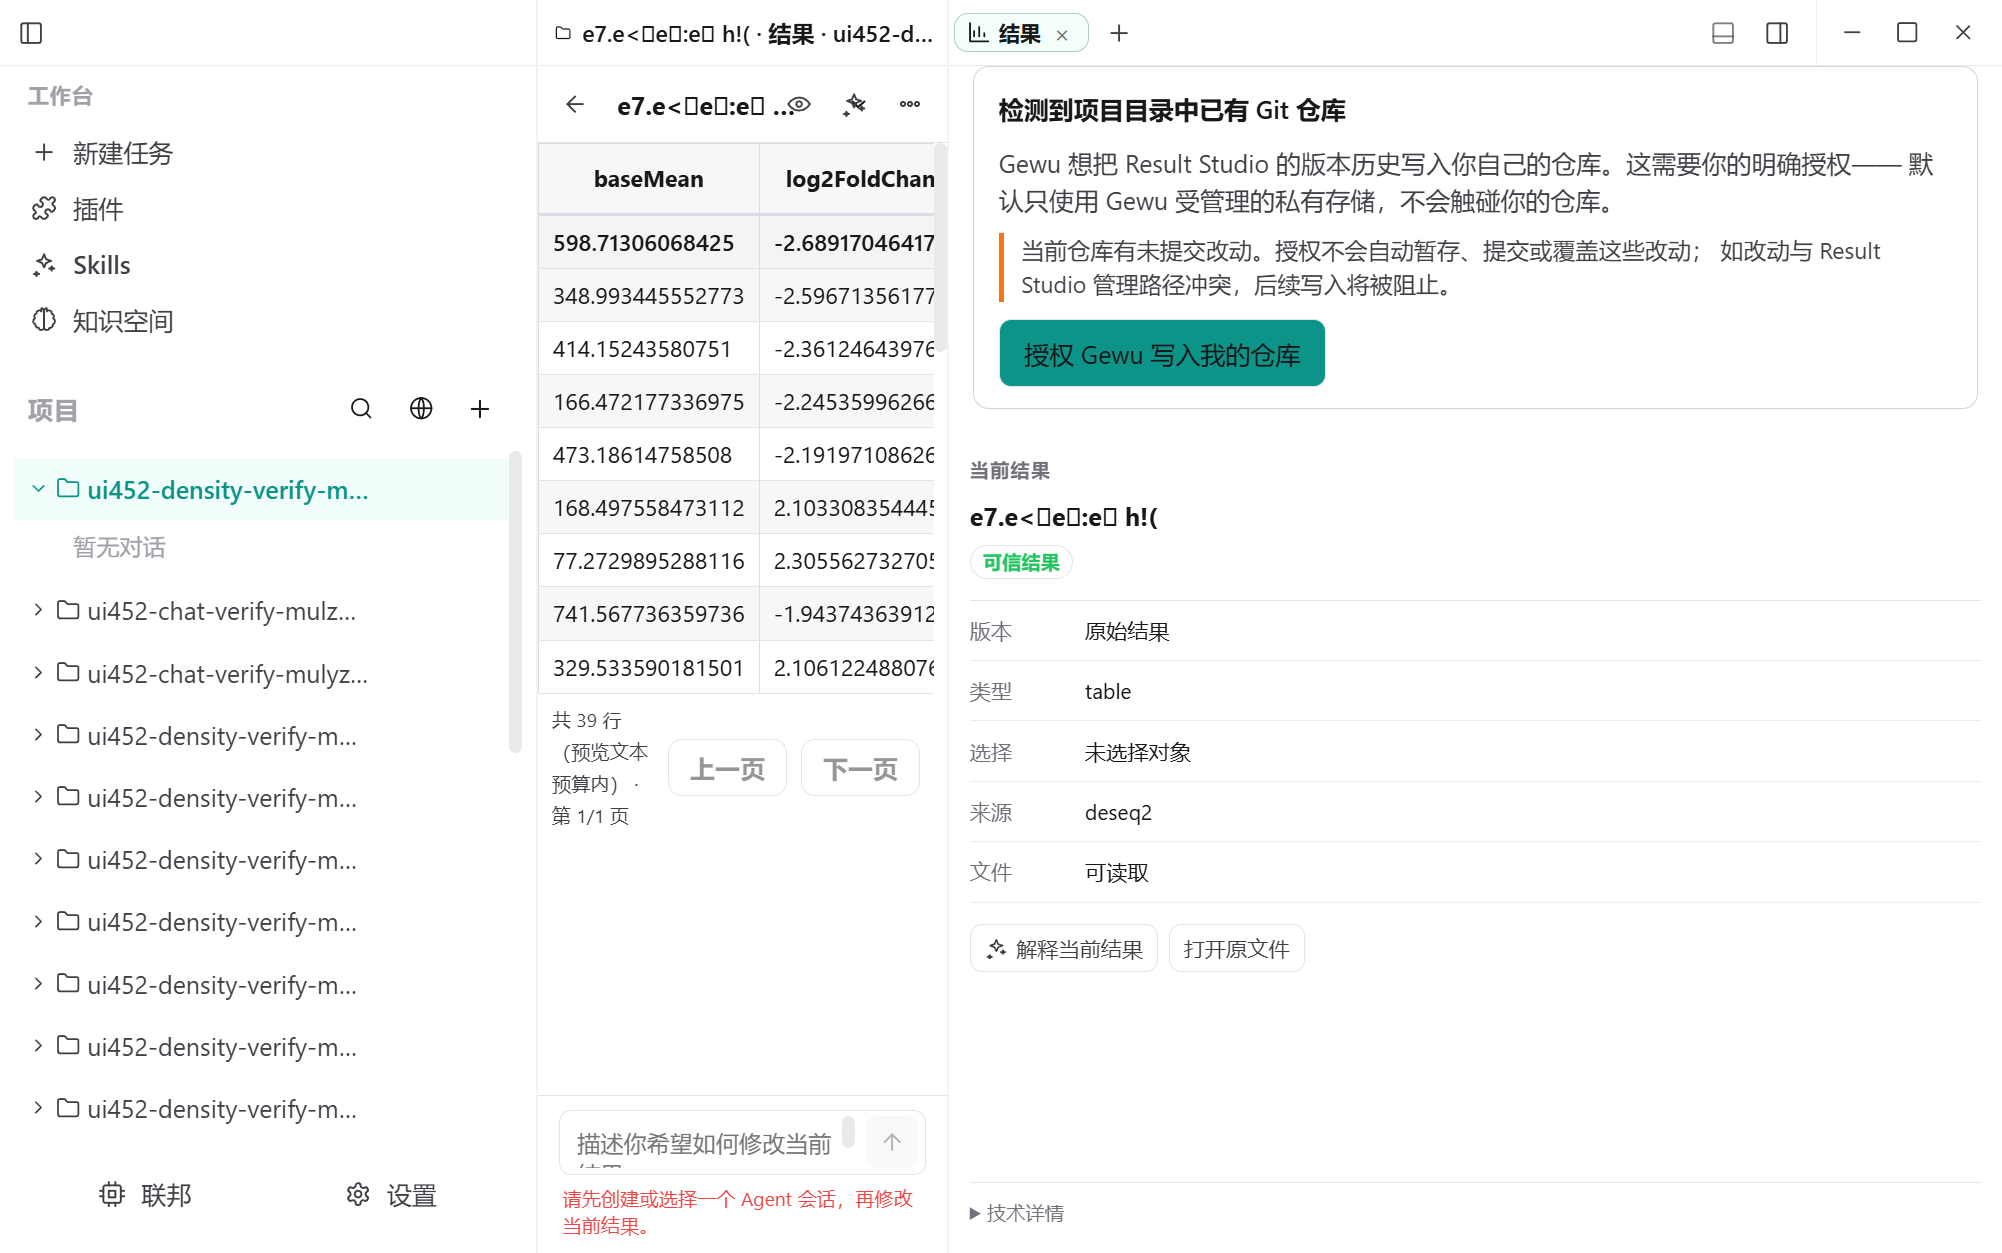
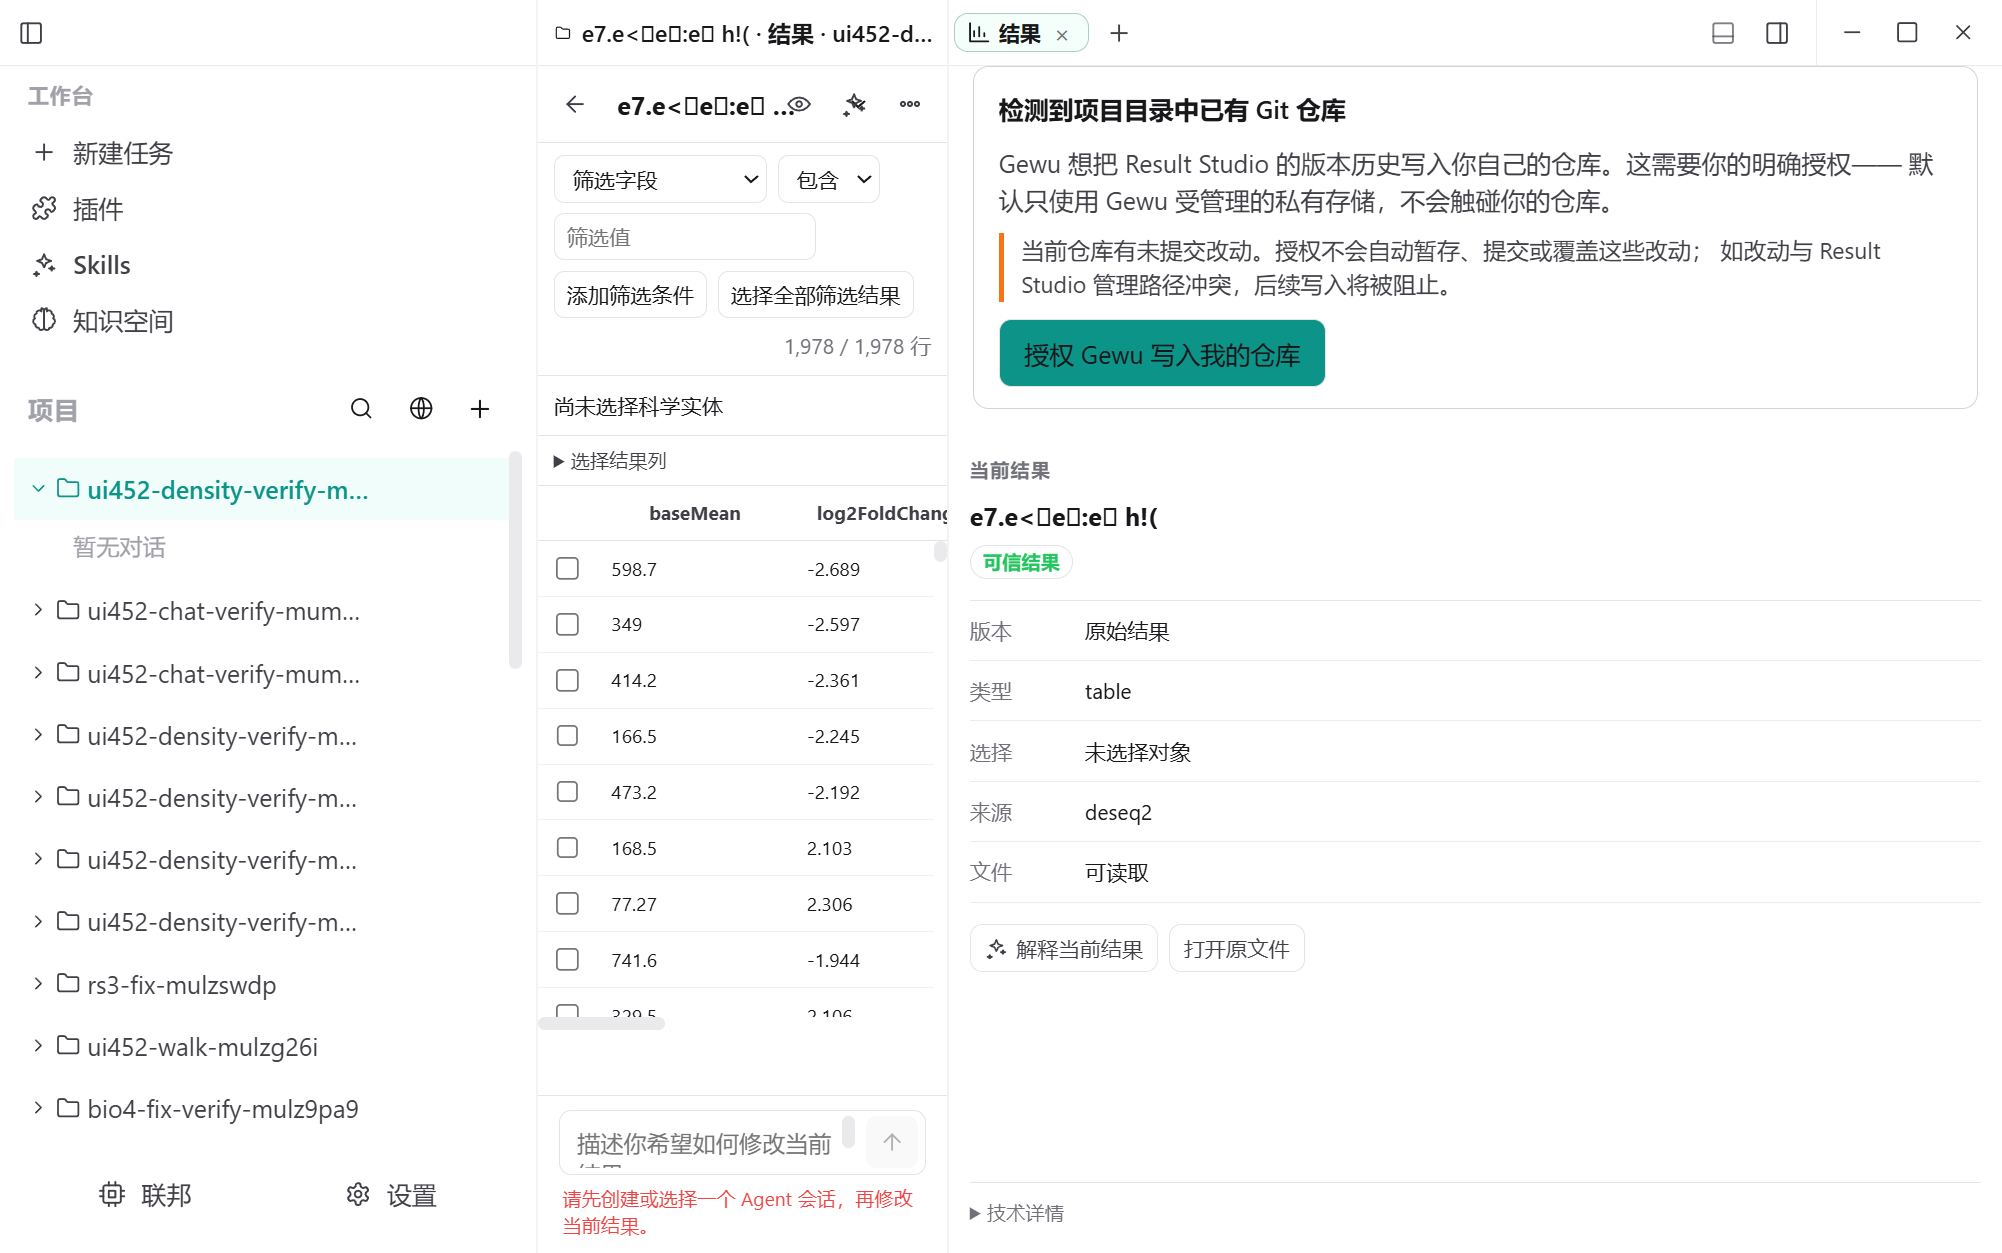
docs(UI-452): 六面实机 verified——自主冲刺阶段二收官：RS3 交互投影缺口的根因链修复（BIO-4 UTF-8 改造→插件源码哈希漂移→goldenFixture 校验拒→resultStudio 置 null 连坐交互映射→pack 5036e86 三件重锚恢复）后，ui452-density-live 双路联合走查 9/10：T5a 散点 tooltip 全数值实机铁证（GENE001|log2FoldChange:2.45|significance:0.000125|sig:Up——数据在手零新请求形态）+T5b 搜索高亮 25 命中（React 受控 input

diff --git a/docs/ui-productization-audit.md b/docs/ui-productization-audit.md
@@ -4423,7 +4423,7 @@ BLOCK-22 PHASE 4 落地：acceptHunk / rejectHunk IPC 成功后派发 typed even
 - **边界**：P2-6 维持缓期（理由如上，登记于本条）；浏览器后退/前进与程序化跳转不在 P2-8 守卫面（beforeunload 只拦整窗关闭）；重开历史容量 8、会话内有效不持久化。
 - G0 开发期常态 · 不外推 packaged/Provider/GA。
 
-## UI-452: 结果信息密度包——散点数值 tooltip + 基因搜索 + 阈值参考线 + 表格组合筛选 + 科学计数格式化 + Lightbox 缩放平移 (2026-09-29 in_progress，实机三面过：深链打开链/Lightbox 全链 zoom-reset-close/CSV 分页在场——ui452-density-live T1/T3 PASS+T2 部分；散点五面组件级 27/27（交互清单 RS3 链对 HTTP/MCP job 均未投影 mapping=独立缺口登记 BIO 加映；用户过目任意结果页可补)
+## UI-452: 结果信息密度包——散点数值 tooltip + 基因搜索 + 阈值参考线 + 表格组合筛选 + 科学计数格式化 + Lightbox 缩放平移 (2026-09-29 verified，ui452-density-live 联合走查 9/10：T5a tooltip 全数值实机铁证「GENE001 | log2FoldChange: 2.45 | significance: 0.000125 | sig: Up」+T5b 搜索高亮 25 命中+T5c 阈值线 x2y1+T6a 组合筛选两子句生效「25/25 行」+T3 Lightbox 全链 zoom-reset-close+T1 深链保持+T2 交互/静态双形态；T6b= demo 数据边界（0.000125 不触发科学计数区间）非缺陷，formatScientificValue 组件级 5/5 在册——前置修复：pack 5036e86 三件 goldenFixture 哈希重锚恢复 RS3 交互投影（BIO-4 UTF-8 改造连带漂移的根因修复）)
 
 - **来源**：G0-BIO Goal 线 BIO-1 阶段种子（docs/g0-bio-delivery-goal-plan.md §3；2026-09-28 垂直评估「结果查看专业信息密度不及格」差距表）。用户裁决「可以的 按照你的建议来逐个推进」=两 Goal 交织序队列头启动。
 - **六件**（全部为既有通道与数据的呈现重组，选择协议/artifact-selection 契约零改动）：①**散点数值 tooltip**——ScientificScatter 每点 `<title>` 从裸基因 ID 扩为 ID+xField 值+yField 值+legend 值（数据来自已拉取的 backing 行，零新请求）；②**基因搜索定位**——散点工具条搜索框（aria-label 搜索实体），子串不区分大小写匹配稳定实体 ID，命中点放大+描边（data-search-hit），caveat 显示命中数，Enter 将全部命中点写为 point_select 选择（走既有 buildPointSelection 契约）；③**阈值参考线**——可开关（默认开），x=±|log2FC|（默认 1 可调）竖虚线两条 + yTransform=neg_log10 时 padj（默认 0.05 可调）横虚线，越界不画（诚实），明确标注「展示辅助」不回写分析参数（按 job params 投影 cutoff 留后续接线）；④**表格组合筛选**——单字段 contains 升级为子句构建器：多条件 AND，每条=字段+操作符（包含/=/≠/>/≥/</≤，协议 SelectionFilterClause 既有 op 集）+值；数值比较操作符值不可解析时该子句不生效（不猜语义）；⑤**数值科学计数格式化**——新纯函数 lib/format-scientific-value（|x|≥1e6 或 <1e-3 两位科学计数，常规 4 位有效数字，非数值原样返回不猜测），表格 number 列显示层套用，title 保留原始字符串；⑥**Lightbox 缩放平移**——滚轮缩放（1..8 夹紧，原生非 passive 监听钉 preventDefault）、拖拽平移（位移>3px 判拖拽不触发关闭，近零位移=点击关闭）、双击复位、Esc 关闭保留、操作提示常驻。

diff --git a/docs/next-steps-roadmap.md b/docs/next-steps-roadmap.md
@@ -1,5 +1,7 @@
 # BioF3 Desktop — Current Next Steps
 
+最后更新：2026-09-29（**自主冲刺阶段二收官：RS3 交互投影缺口根因修复+UI-452 六面实机 verified**——根因链：BIO-4 的 UTF-8 改造→三件插件源码哈希漂移→goldenFixture 校验拒→resultStudio 整体置 null（交互映射连坐）→pack 5036e86 重锚三件 fixture 哈希→valid=true→栈重启后 volcano-plot job 交互端点恢复 scatter 全量 mapping→**UI-452 联合走查 9/10 六面实机全证**（tooltip 全数值「GENE001|log2FoldChange:2.45|significance:0.000125|sig:Up」/搜索 25 命中/阈值线/组合筛选/ Lightbox/深链；T6b demo 数据边界非缺陷）→**UI-452 翻 verified**。冲刺总账：两阶段清掉积压 7 项中 6 项（B126 复验+BIO-4 六件+UI-455 verified+UI-452 verified+UI-454 ③④①实机+B128 双链跑通）；剩余：UI-454②热图实机（deseq2 heatmap 无 matrix 声明待 pack 域）+label 拼接乱码加映二+B128 心跳精确观察+冷启动深链竞争。队列代码面：PL-3 二刀/BIO-5。G0 开发期常态 · 不外推 packaged/Provider/GA。）
+
 最后更新：2026-09-29（**自主冲刺批量实机收口（用户授权连续作业）**：栈重启（带 R env）后一次收掉积压——①BLOCK-126 复跑 6/6+端点兜底实证（source=run.log）；②BIO-4 六件 Windows 全 completed（加映一 pack 67507db 修三钉+环境补装 GO.db/org.Hs.eg.db；label 拼接形态三件残留登记加映二）；③UI-455 翻 verified（深链 URL 保持铁证）；UI-452 实机三面（深链/Lightbox 全链/分页在场）；UI-454 ③④实机；④BLOCK-128 两执行链端到端 completed（chat MCP 链+HTTP 链）——心跳中间值精确观察与取消链留加映（status 投影不含 heartbeat 字段+需慢任务窗口）。**遗留缺口集中登记：交互清单 RS3 链对插件产物未投影 mapping（散点/热图实机的共同阻塞）+label 拼接乱码+冷启动深链竞争**——三者构成下一个高价值包（BIO 加映或 RS3 域小包）。队列代码面：PL-3 二刀/BIO-5。G0 开发期常态 · 不外推 packaged/Provider/GA。）
 
 最后更新：2026-09-29（**PL-3 一刀/队列化交付**（用户裁决「继续」）：满载入队不拒（shouldQueue 建行 pending+终态泵 pumpQueuedToolJobs 按创建序拉起——registry scheduler slot 挂在三终态原语后，一次一泵+jobDir 顶层重建 staged 重启安全）+queued/queuePosition 提交响应+深度上限 BIOF3_TOOL_QUEUE_DEPTH_LIMIT 默认 50/user 才 429——「并发满即拒」变「排队可见」；契约 4/4（守卫型+行为测，非先红如实登记）+回归 108/0；重试策略留 PL-3 二刀，MCP 同步路径维持拒绝（边界登记）。**实机积压 7 项不变（全压栈重启+用户过目）**；代码面下一项=BIO-5 输入显式化或 PL-3 二刀。G0 开发期常态 · 不外推 packaged/Provider/GA。）

diff --git a/docs/pending-work-backlog.md b/docs/pending-work-backlog.md
@@ -69,7 +69,7 @@
 
 | 序 | ID | 事项 | 来源（证据指针） | 状态 |
 | --- | --- | --- | --- | --- |
-| 1 | BIO-1 / UI-452 | **结果信息密度包**（六件交付 `509d3eaa`；组件级 27/27；端到端走查 2026-09-28 尝试受阻：HTTP 直跑无会话 job 四条打开路径均未进结果页=产品发现登记 AUDIT-LOG 🟡 归 BIO-3/PL-7 修；**翻 verified 捷径=用户实机过目会话内 deseq2 结果六面**，或后续借 block121 会话造数复跑 scripts/ui452-density-live.cjs） | G0-BIO plan §3 BIO-1 | in_progress（过目待用户） |
+| 1 | BIO-1 / UI-452 | **结果信息密度包 verified**（2026-09-29 六面实机 9/10：tooltip 全数值/搜索 25 命中/阈值线/组合筛选 25/25/Lightbox 全链/深链保持——ui452-density-live 双路联合走查；T6b demo 数据边界非缺陷；前置=pack 5036e86 goldenFixture 重锚恢复 RS3 交互投影） | G0-BIO plan §3 BIO-1 | **verified** |
 | 1b | BIO-2 / UI-454 | **交互上限与降级链**（散点 backing 250→600/热图解除前端自缚全量渲染/静态 CSV 本地分页 50 行页/日志端点项目目录兜底修 BLOCK-126 发现缺陷；组件级 32/32+Node 640/0——**实机生效待 dev 栈重启**，重启后复跑 perception-live 即见端点 run.log 兜底；mojibake 移 BIO-4、top-N 排序移 BIO-3 留痕） | G0-BIO plan §3 BIO-2；台账 UI-454 | in_progress（实机待栈重启） |
 | 1c | BIO-3 / UI-455（P0 首刀） | **打开链修复 verified**（2026-09-29 实机铁证：SPA 深链 URL 保持 /result?job= 不归零+HTTP job 结果页可达——ui452-density-live T1 PASS；冷启动完整重载的归零竞争=独立缺陷仍登记） | G0-BIO plan §3 BIO-3；台账 UI-455 | **verified** |
 | 1d | BIO-3 / UI-456（P1） | **结果血缘条**：lineage 投影纯函数+listProjectWorkflowGraphs 仓库方法+GET /lineage 端点+前端 LineageStrip（契约 5/5+组件 4/4+Node 617/0）——实机待栈重启+真实跨 Job 链数据（随 BIO-4 解冻产生）；P2 继续分析按钮随 BIO-4 | G0-BIO plan §3 BIO-3；台账 UI-456 | in_progress（实机待数据） |
